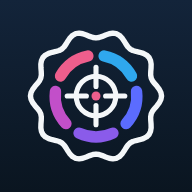
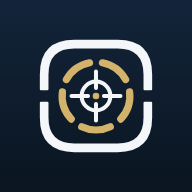
Install solid-frame gold brand mark

Changed region(s): [[0.125, 0.1562, 0.875, 0.8438]]

diff --git a/components/brand/BrandMark.tsx b/components/brand/BrandMark.tsx
@@ -3,8 +3,11 @@ import s from "./BrandLogo.module.css"
 type Props = { size?: number; className?: string; title?: string }
 
 /**
- * The R1 Medallion Scope mark. Keeping the SVG inline lets the edge and sight
- * inherit their surrounding ink while the five phase arcs retain their palette.
+ * The Gun License NYC mark: a solid frame (two brackets), five gold ring arcs and
+ * a scope sight. Inline so the frame and sight inherit the surrounding ink while
+ * the ring and dot stay brand gold (#D3B36B). Class names are the animation hooks
+ * in BrandLogo.module.css: edge, arcs, ping, sight, ring, ticksHover, ticks,
+ * dotHover, dot. Do not rename them.
  */
 export default function BrandMark({ size = 32, className, title }: Props) {
   return (
@@ -19,27 +22,30 @@ export default function BrandMark({ size = 32, className, title }: Props) {
       aria-label={title}
       focusable="false"
     >
-      <path className={s.edge} d="M45.85 24.00 L45.65 25.13 L45.11 26.22 L44.35 27.22 L43.54 28.15 L42.85 29.05 L42.40 29.98 L42.22 30.99 L42.25 32.12 L42.35 33.35 L42.38 34.61 L42.18 35.81 L41.68 36.84 L40.85 37.65 L39.77 38.20 L38.57 38.57 L37.37 38.84 L36.28 39.17 L35.37 39.65 L34.63 40.37 L33.99 41.30 L33.35 42.35 L32.63 43.39 L31.77 44.24 L30.75 44.78 L29.61 44.94 L28.41 44.76 L27.22 44.35 L26.09 43.87 L25.02 43.49 L24.00 43.35 L22.98 43.49 L21.91 43.87 L20.78 44.35 L19.59 44.76 L18.39 44.94 L17.25 44.78 L16.23 44.24 L15.37 43.39 L14.65 42.35 L14.01 41.30 L13.37 40.37 L12.63 39.65 L11.72 39.17 L10.63 38.84 L9.43 38.57 L8.23 38.20 L7.15 37.65 L6.32 36.84 L5.82 35.81 L5.62 34.61 L5.65 33.35 L5.75 32.12 L5.78 30.99 L5.60 29.98 L5.15 29.05 L4.46 28.15 L3.65 27.22 L2.89 26.22 L2.35 25.13 L2.15 24.00 L2.35 22.87 L2.89 21.78 L3.65 20.78 L4.46 19.85 L5.15 18.95 L5.60 18.02 L5.78 17.01 L5.75 15.88 L5.65 14.65 L5.62 13.39 L5.82 12.19 L6.32 11.16 L7.15 10.35 L8.23 9.80 L9.43 9.43 L10.63 9.16 L11.72 8.83 L12.63 8.35 L13.37 7.63 L14.01 6.70 L14.65 5.65 L15.37 4.61 L16.23 3.76 L17.25 3.22 L18.39 3.06 L19.59 3.24 L20.78 3.65 L21.91 4.13 L22.98 4.51 L24.00 4.65 L25.02 4.51 L26.09 4.13 L27.22 3.65 L28.41 3.24 L29.61 3.06 L30.75 3.22 L31.77 3.76 L32.63 4.61 L33.35 5.65 L33.99 6.70 L34.63 7.63 L35.37 8.35 L36.28 8.83 L37.37 9.16 L38.57 9.43 L39.77 9.80 L40.85 10.35 L41.68 11.16 L42.18 12.19 L42.38 13.39 L42.35 14.65 L42.25 15.88 L42.22 17.01 L42.40 18.02 L42.85 18.95 L43.54 19.85 L44.35 20.78 L45.11 21.78 L45.65 22.87 Z" stroke="currentColor" strokeWidth="1.8" strokeLinejoin="round" />
-      <g className={s.arcs}>
-        <path d="M26.70 10.67 A13.6 13.6 0 0 1 35.84 17.31" stroke="var(--logo-arc-1, #2FA8EE)" strokeWidth="3.8" strokeLinecap="round" />
-        <path d="M37.51 22.45 A13.6 13.6 0 0 1 34.02 33.20" stroke="var(--logo-arc-2, #5B6CFF)" strokeWidth="3.8" strokeLinecap="round" />
-        <path d="M29.65 36.37 A13.6 13.6 0 0 1 18.35 36.37" stroke="var(--logo-arc-3, #8A5BEA)" strokeWidth="3.8" strokeLinecap="round" />
-        <path d="M13.98 33.20 A13.6 13.6 0 0 1 10.49 22.45" stroke="var(--logo-arc-4, #C24FC9)" strokeWidth="3.8" strokeLinecap="round" />
-        <path d="M12.16 17.31 A13.6 13.6 0 0 1 21.30 10.67" stroke="var(--logo-arc-5, #EE5E8C)" strokeWidth="3.8" strokeLinecap="round" />
+      <g className={s.edge} fill="currentColor">
+        <path d="M 5.64,25.92 L 7.8,25.92 Q 8.16,25.92 8.16,26.28 L 8.16,31.2 Q 8.16,39.84 16.8,39.84 L 31.2,39.84 Q 39.84,39.84 39.84,31.2 L 39.84,26.28 Q 39.84,25.92 40.2,25.92 L 42.36,25.92 Q 42.72,25.92 42.72,26.28 L 42.72,31.2 Q 42.72,42.72 31.2,42.72 L 16.8,42.72 Q 5.28,42.72 5.28,31.2 L 5.28,26.28 Q 5.28,25.92 5.64,25.92Z" />
+        <path d="M 5.64,22.08 L 7.8,22.08 Q 8.16,22.08 8.16,21.72 L 8.16,16.8 Q 8.16,8.16 16.8,8.16 L 31.2,8.16 Q 39.84,8.16 39.84,16.8 L 39.84,21.72 Q 39.84,22.08 40.2,22.08 L 42.36,22.08 Q 42.72,22.08 42.72,21.72 L 42.72,16.8 Q 42.72,5.28 31.2,5.28 L 16.8,5.28 Q 5.28,5.28 5.28,16.8 L 5.28,21.72 Q 5.28,22.08 5.64,22.08Z" />
       </g>
-      <circle className={s.ping} cx="24" cy="24" r="4" stroke="var(--logo-dot, var(--logo-arc-5, #EE5E8C))" strokeWidth="1.2" />
+      <g className={s.arcs}>
+        <path d="M26.15 12.93 A11.28 11.28 0 0 1 33.87 18.53" stroke="var(--logo-arc-1, #D3B36B)" strokeWidth="2.4" strokeLinecap="round" />
+        <path d="M35.2 22.62 A11.28 11.28 0 0 1 32.25 31.69" stroke="var(--logo-arc-2, #D3B36B)" strokeWidth="2.4" strokeLinecap="round" />
+        <path d="M28.77 34.22 A11.28 11.28 0 0 1 19.23 34.22" stroke="var(--logo-arc-3, #D3B36B)" strokeWidth="2.4" strokeLinecap="round" />
+        <path d="M15.75 31.69 A11.28 11.28 0 0 1 12.8 22.62" stroke="var(--logo-arc-4, #D3B36B)" strokeWidth="2.4" strokeLinecap="round" />
+        <path d="M14.13 18.53 A11.28 11.28 0 0 1 21.85 12.93" stroke="var(--logo-arc-5, #D3B36B)" strokeWidth="2.4" strokeLinecap="round" />
+      </g>
+      <circle className={s.ping} cx="24" cy="24" r="3.4" stroke="var(--logo-dot, var(--logo-arc-5, #D3B36B))" strokeWidth="1" />
       <g className={s.sight}>
-        <circle className={s.ring} cx="24" cy="24" r="6.6" stroke="currentColor" strokeWidth="1.7" />
+        <circle className={s.ring} cx="24" cy="24" r="4.8" stroke="currentColor" strokeWidth="1.34" />
         <g className={s.ticksHover}>
-          <g className={s.ticks} stroke="currentColor" strokeWidth="1.7" strokeLinecap="round">
-            <line x1="27.2" y1="24" x2="33.6" y2="24" />
-            <line x1="24" y1="27.2" x2="24" y2="33.6" />
-            <line x1="20.8" y1="24" x2="14.4" y2="24" />
-            <line x1="24" y1="20.8" x2="24" y2="14.4" />
+          <g className={s.ticks} stroke="currentColor" strokeWidth="1.34" strokeLinecap="round">
+            <line x1="24" y1="15.84" x2="24" y2="21.36" />
+            <line x1="32.16" y1="24" x2="26.64" y2="24" />
+            <line x1="24" y1="32.16" x2="24" y2="26.64" />
+            <line x1="15.84" y1="24" x2="21.36" y2="24" />
           </g>
         </g>
         <g className={s.dotHover}>
-          <circle className={s.dot} cx="24" cy="24" r="1.5" fill="var(--logo-dot, var(--logo-arc-5, #EE5E8C))" />
+          <circle className={s.dot} cx="24" cy="24" r="1.1" fill="var(--logo-dot, var(--logo-arc-5, #D3B36B))" />
         </g>
       </g>
     </svg>

diff --git a/tests/logo-gold.spec.ts b/tests/logo-gold.spec.ts
@@ -1,0 +1,84 @@
+import { expect, test } from "@playwright/test"
+
+const GOLD = "rgb(211, 179, 107)"
+
+async function readMark(page: import("@playwright/test").Page) {
+  const edge = page.locator('g[class*="edge"]').first()
+  await expect(edge).toBeVisible()
+
+  return edge.evaluate((node) => {
+    const svg = node.closest("svg")!
+    const arcs = [...svg.querySelectorAll('path[stroke*="logo-arc"]')]
+
+    return {
+      edgePaths: node.querySelectorAll(":scope > path").length,
+      arcStrokes: arcs.map((arc) => getComputedStyle(arc).stroke),
+    }
+  })
+}
+
+test.describe("solid-frame gold brand mark", () => {
+  for (const path of ["/admin", "/portal", "/auth/login"]) {
+    test(`${path} renders the shared gold mark`, async ({ page }) => {
+      await page.goto(path, { waitUntil: "networkidle" })
+      const mark = await readMark(page)
+
+      expect(mark.edgePaths).toBe(2)
+      expect(mark.arcStrokes).toEqual(Array(5).fill(GOLD))
+    })
+  }
+
+  test("V3 keeps its own comparison colorway", async ({ page }) => {
+    await page.goto("/V3", { waitUntil: "networkidle" })
+    const mark = await readMark(page)
+
+    expect(mark.edgePaths).toBe(2)
+    expect(mark.arcStrokes).toEqual([
+      "rgb(47, 93, 80)",
+      "rgb(63, 110, 90)",
+      "rgb(102, 123, 87)",
+      "rgb(149, 127, 82)",
+      "rgb(176, 141, 87)",
+    ])
+  })
+
+  test("V2 gold ring completes its 40-second turn without wobble", async ({ page }) => {
+    test.setTimeout(55_000)
+    await page.goto("/V2", { waitUntil: "networkidle" })
+
+    const arcs = page.locator('g[class*="arcs"]').first()
+    await expect(arcs).toBeVisible()
+    const startingCenter = await arcs.evaluate((node) => {
+      const box = node.getBoundingClientRect()
+      return { x: box.x + box.width / 2, y: box.y + box.height / 2 }
+    })
+
+    for (let step = 0; step < 5; step += 1) {
+      await page.waitForTimeout(8_000)
+      const frame = await arcs.evaluate((node) => {
+        const box = node.getBoundingClientRect()
+        return {
+          x: box.x + box.width / 2,
+          y: box.y + box.height / 2,
+          stroke: getComputedStyle(node.querySelector("path")!).stroke,
+        }
+      })
+      expect(frame.stroke).toBe(GOLD)
+      expect(Math.abs(frame.x - startingCenter.x)).toBeLessThan(0.75)
+      expect(Math.abs(frame.y - startingCenter.y)).toBeLessThan(0.75)
+    }
+  })
+
+  test("reduced motion disables every logo animation", async ({ page }) => {
+    await page.emulateMedia({ reducedMotion: "reduce" })
+    await page.goto("/V2", { waitUntil: "networkidle" })
+
+    const animations = await page.locator('svg:has(g[class*="arcs"])').first().evaluate((svg) =>
+      ["edge", "arcs", "ticks", "ring", "dot", "ping"].map((hook) => {
+        const node = svg.querySelector(`[class*="${hook}"]`)
+        return node ? getComputedStyle(node).animationName : null
+      })
+    )
+    expect(animations).toEqual(Array(6).fill("none"))
+  })
+})

diff --git a/styles/themes.css b/styles/themes.css
@@ -29,13 +29,14 @@
   /* Navy & Champagne: these are deliberately V2-local.  The V0 fallback and
      the other comparison colorways remain byte-for-byte independent. */
   --gold: #D9B25F; --gold-light: #F0D58C; --gold-deep: #8A6420; --gold-on-dark: #E6C886;
+  --logo-gold: #D3B36B;
   --gold-rule: linear-gradient(90deg, #D9B25F, #F0D58C);
   --gold-hair: linear-gradient(90deg, transparent, #D9B25F, #F0D58C, #D9B25F, transparent);
   --gold-btn: linear-gradient(180deg, #F3DC9C 0%, #D9B25F 60%, #C49A47 100%);
   --gold-tint: rgba(217,178,95,.14);
-  --logo-arc-1: #2FA8EE; --logo-arc-2: #5B6CFF; --logo-arc-3: #8A5BEA; --logo-arc-4: #C24FC9; --logo-arc-5: #EE5E8C;
-  --logo-dot: #EE5E8C;
-  --nyc-grad: linear-gradient(90deg,#2FA8EE,#8A5BEA 55%,#EE5E8C);
+  --logo-arc-1: var(--logo-gold); --logo-arc-2: var(--logo-gold); --logo-arc-3: var(--logo-gold); --logo-arc-4: var(--logo-gold); --logo-arc-5: var(--logo-gold);
+  --logo-dot: var(--logo-gold);
+  --nyc-grad: linear-gradient(90deg, var(--logo-gold), var(--logo-gold));
 }
 [data-theme="v3"] {
   --bg: #F7F4EE; --surface: #FFFDF8; --line: rgba(20,33,28,.10);
@@ -73,8 +74,8 @@
   --logo-arc-1: var(--phase-1); --logo-arc-2: var(--phase-2); --logo-arc-3: var(--phase-3); --logo-arc-4: var(--phase-4); --logo-arc-5: var(--phase-5);
 }
 [data-theme] .onDark { --logo-arc-1: var(--phase-dark-1); --logo-arc-2: var(--phase-dark-2); --logo-arc-3: var(--phase-dark-3); --logo-arc-4: var(--phase-dark-4); --logo-arc-5: var(--phase-dark-5); }
-[data-theme="v2"] { --logo-arc-1: #2FA8EE; --logo-arc-2: #5B6CFF; --logo-arc-3: #8A5BEA; --logo-arc-4: #C24FC9; --logo-arc-5: #EE5E8C; }
-[data-theme="v2"] .onDark { --logo-arc-1: #2FA8EE; --logo-arc-2: #5B6CFF; --logo-arc-3: #8A5BEA; --logo-arc-4: #C24FC9; --logo-arc-5: #EE5E8C; }
+[data-theme="v2"] { --logo-arc-1: var(--logo-gold); --logo-arc-2: var(--logo-gold); --logo-arc-3: var(--logo-gold); --logo-arc-4: var(--logo-gold); --logo-arc-5: var(--logo-gold); }
+[data-theme="v2"] .onDark { --logo-arc-1: var(--logo-gold); --logo-arc-2: var(--logo-gold); --logo-arc-3: var(--logo-gold); --logo-arc-4: var(--logo-gold); --logo-arc-5: var(--logo-gold); }
 
 /* One restrained champagne moment per viewport. These selectors are all V2
    only so nested marketing modules need not leak presentation into the live

diff --git a/lib/email/template.ts b/lib/email/template.ts
@@ -117,7 +117,7 @@ ${preheaderHtml}
 
       <!-- Header -->
       <tr><td style="background-color:${C.obsidian};padding:20px 32px;">
-        <img src="${brand.url}/brand/logo-mark-light-512.png" width="36" height="36" alt="Gun License NYC" style="vertical-align:middle;display:inline-block;border:0;" />
+        <img src="${brand.url}/brand/logo-mark-light-512.png?v=frame1" width="36" height="36" alt="Gun License NYC" style="vertical-align:middle;display:inline-block;border:0;" />
         <span style="font-family:${FONT};font-size:17px;font-weight:600;letter-spacing:0.2px;color:${C.headerText};vertical-align:middle;padding-left:8px;">${esc(brand.name)}</span>
       </td></tr>
       <!-- Brass rule -->
@@ -137,7 +137,7 @@ ${preheaderHtml}
       <!-- Footer -->
       <tr><td style="background-color:${C.footerBg};padding:22px 32px;border-top:1px solid ${C.hairline};">
         <p style="font-family:${FONT};font-size:13px;font-weight:600;color:${C.heading};margin:0 0 8px;">
-          <img src="${brand.url}/brand/logo-mark-ink-512.png" width="18" height="18" alt="Gun License NYC" style="vertical-align:middle;display:inline-block;border:0;" /> ${esc(brand.name)}
+          <img src="${brand.url}/brand/logo-mark-ink-512.png?v=frame1" width="18" height="18" alt="Gun License NYC" style="vertical-align:middle;display:inline-block;border:0;" /> ${esc(brand.name)}
         </p>
         ${reasonHtml}
         <p style="font-family:${FONT};font-size:11px;line-height:1.55;color:${C.faint};margin:0;">${esc(brand.disclaimer)}</p>

diff --git a/components/brand/BrandLogo.module.css b/components/brand/BrandLogo.module.css
@@ -4,7 +4,8 @@
 .light { color: var(--dark-ink, #F4F7F9); }
 .word { display: inline-flex; align-items: baseline; gap: 7px; white-space: nowrap; }
 .wordMain { font-family: var(--font-sans), sans-serif; font-weight: 600; letter-spacing: -0.01em; color: currentColor; }
-.wordNyc { font-family: var(--font-mono), ui-monospace, monospace; font-weight: 600; letter-spacing: 0.12em; color: var(--logo-arc-2, #5B6CFF); background: var(--nyc-grad, linear-gradient(90deg, var(--logo-arc-1, #2FA8EE), var(--logo-arc-3, #8A5BEA) 55%, var(--logo-arc-5, #EE5E8C))); -webkit-background-clip: text; background-clip: text; -webkit-text-fill-color: transparent; }
+.wordNyc { font-family: var(--font-mono), ui-monospace, monospace; font-weight: 600; letter-spacing: 0.12em; color: #D3B36B; background: var(--nyc-grad, linear-gradient(90deg, #D3B36B, #D3B36B)); -webkit-background-clip: text; background-clip: text; -webkit-text-fill-color: transparent; }
+.ink .wordNyc { --nyc-grad: linear-gradient(90deg, #A9802F, #A9802F); color: #A9802F; }
 .md .wordMain { font-size: 19px; } .md .wordNyc { font-size: 13.5px; }
 .sm .wordMain { font-size: 17px; } .sm .wordNyc { font-size: 12px; }
 .sm { gap: 10px; }

diff --git a/app/og/route.tsx b/app/og/route.tsx
@@ -35,7 +35,7 @@ export async function GET(request: Request) {
   const title = (searchParams.get("title") ?? brand.tagline).slice(0, 110)
   const eyebrow = (searchParams.get("eyebrow") ?? "NYC · gun license, handled").slice(0, 60)
   // The new light medallion scope reads crisply on the obsidian card.
-  const logoUrl = new URL("/brand/logo-mark-light-512.png", request.url).href
+  const logoUrl = new URL("/brand/logo-mark-light-512.png?v=frame1", request.url).href
 
   return new ImageResponse(
     (
@@ -97,7 +97,7 @@ export async function GET(request: Request) {
             >
               Gun License
             </div>
-            <div style={{ display: "flex", marginLeft: 12, fontSize: 20, fontWeight: 600, letterSpacing: 4, color: "#8A5BEA" }}>NYC</div>
+            <div style={{ display: "flex", marginLeft: 12, fontSize: 20, fontWeight: 600, letterSpacing: 4, color: "#D3B36B" }}>NYC</div>
           </div>
           <div style={{ display: "flex", fontSize: 22, color: TEXT_MID }}>{brand.domain}</div>
         </div>

diff --git a/app/layout.tsx b/app/layout.tsx
@@ -66,12 +66,12 @@ export const metadata: Metadata = {
   },
   icons: {
     icon: [
-      { url: "/favicon.svg", type: "image/svg+xml" },
-      { url: "/favicon-32.png", sizes: "32x32", type: "image/png" },
-      { url: "/favicon-16.png", sizes: "16x16", type: "image/png" },
+      { url: "/favicon.svg?v=frame1", type: "image/svg+xml" },
+      { url: "/favicon-32.png?v=frame1", sizes: "32x32", type: "image/png" },
+      { url: "/favicon-16.png?v=frame1", sizes: "16x16", type: "image/png" },
     ],
-    shortcut: "/favicon.ico",
-    apple: "/apple-touch-icon.png",
+    shortcut: "/favicon.ico?v=frame1",
+    apple: "/apple-touch-icon.png?v=frame1",
   },
   ...(Object.keys(verification).length ? { verification } : {}),
 };

diff --git a/tests/polish.spec.ts b/tests/polish.spec.ts
@@ -254,7 +254,7 @@ for (const viewport of viewports) {
       await page.waitForTimeout(500)
 
       const logoArcs = await page.locator('[data-theme="v2"]').evaluate((scope) => [...scope.querySelectorAll('path[stroke*="logo-arc"]')].slice(0, 5).map((path) => getComputedStyle(path).stroke))
-      expect(logoArcs).toEqual(["rgb(47, 168, 238)", "rgb(91, 108, 255)", "rgb(138, 91, 234)", "rgb(194, 79, 201)", "rgb(238, 94, 140)"])
+      expect(logoArcs).toEqual(Array(5).fill("rgb(211, 179, 107)"))
 
       const stations = await page.getByTestId("hero-map-overlay").evaluate((canvas, points) => {
         const c = canvas as HTMLCanvasElement

diff --git a/app/manifest.ts b/app/manifest.ts
@@ -5,8 +5,8 @@ export default function manifest(): MetadataRoute.Manifest {
     name: "Gun License NYC",
     short_name: "GL NYC",
     icons: [
-      { src: "/icon-192.png", sizes: "192x192", type: "image/png" },
-      { src: "/icon-512.png", sizes: "512x512", type: "image/png" },
+      { src: "/icon-192.png?v=frame1", sizes: "192x192", type: "image/png" },
+      { src: "/icon-512.png?v=frame1", sizes: "512x512", type: "image/png" },
     ],
     theme_color: "#0A1520",
     background_color: "#0A1520",

diff --git a/components/theme/themes.ts b/components/theme/themes.ts
@@ -24,7 +24,7 @@ export const THEMES = {
     warmAlpha: 0.38,
     path: ["#D29A2E", "#F0C766"],
     pathGlow: "rgba(226,170,64,.45)",
-    logoArcs: ["#2FA8EE", "#5B6CFF", "#8A5BEA", "#C24FC9", "#EE5E8C"],
+    logoArcs: ["#D3B36B", "#D3B36B", "#D3B36B", "#D3B36B", "#D3B36B"],
     gold: "#D9B25F", goldLight: "#F0D58C", goldText: "#E3BF6A",
     ice: ["#9DB4DE", "#8FAEDD", "#7E9BD0", "#A9C1E6"],
     waveRamp: ["#4E6EAE", "#89A6D6", "#E2CB8E", "#E3BF6A"],
